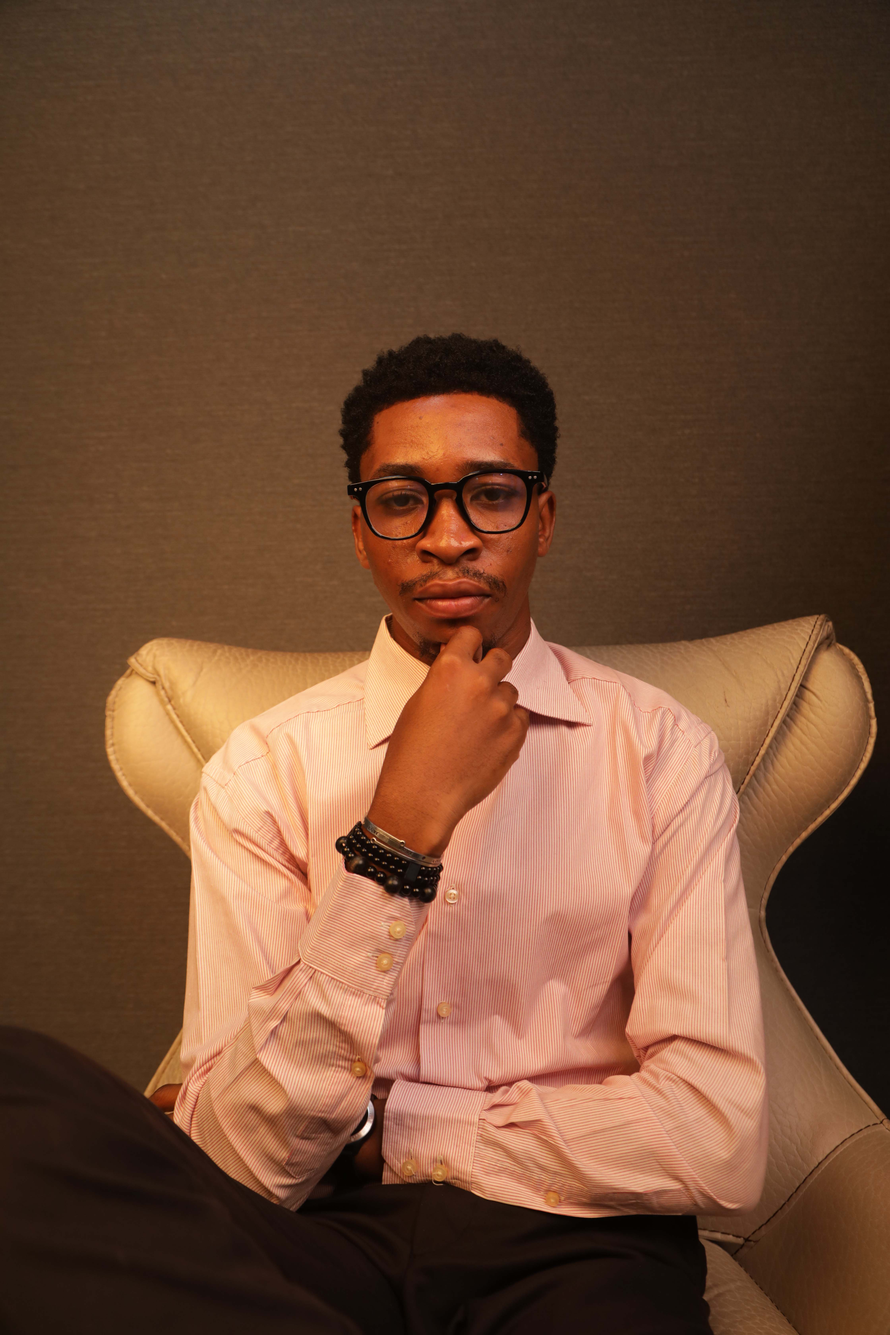
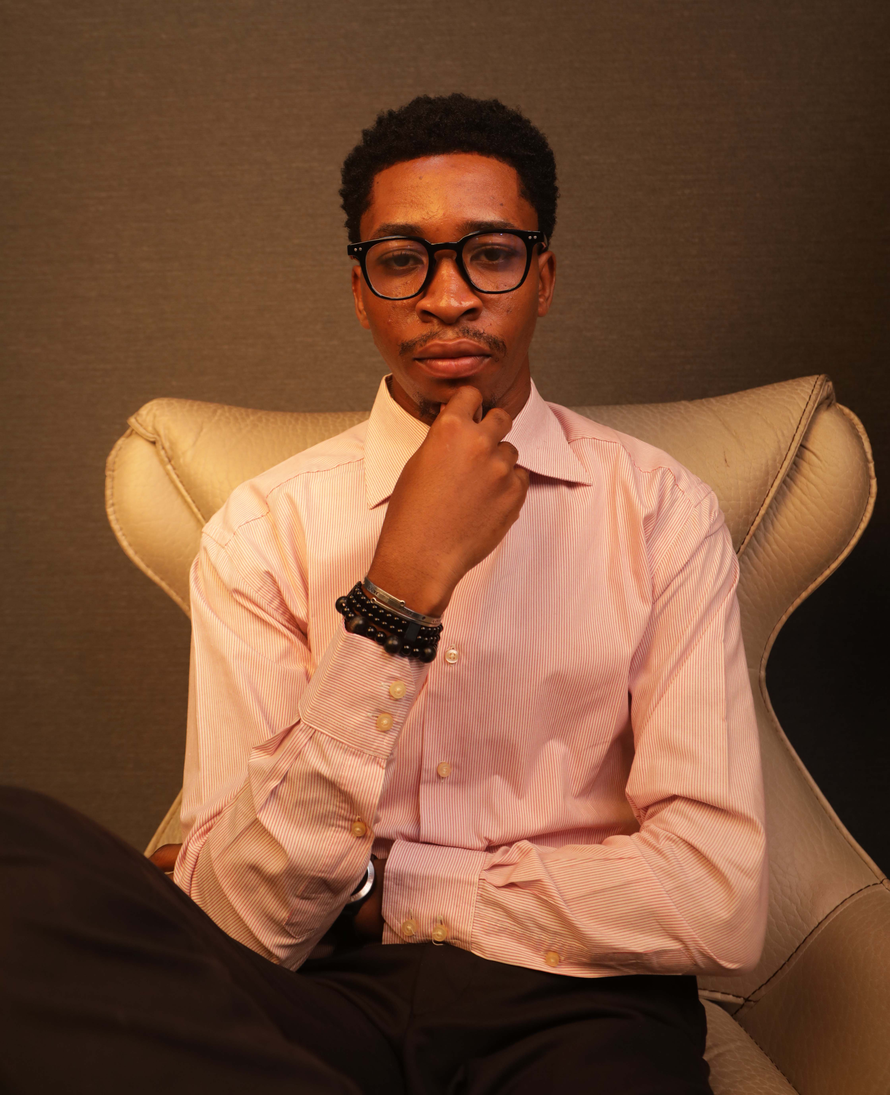
About img edit

diff --git a/public/sass/base/_reset.scss b/public/sass/base/_reset.scss
@@ -113,7 +113,7 @@ img {
       border-radius: 5px;
       width: 100%;
       object-fit: cover;
-      // object-position: center;
+      object-position: top;
       // display: block;
     }
   }

diff --git a/src/index.css b/src/index.css
@@ -119,6 +119,7 @@ img {
   border-radius: 5px;
   width: 100%;
   object-fit: cover;
+  object-position: top;
 }
 @media (max-width: 1024px) {
   .container-short {
